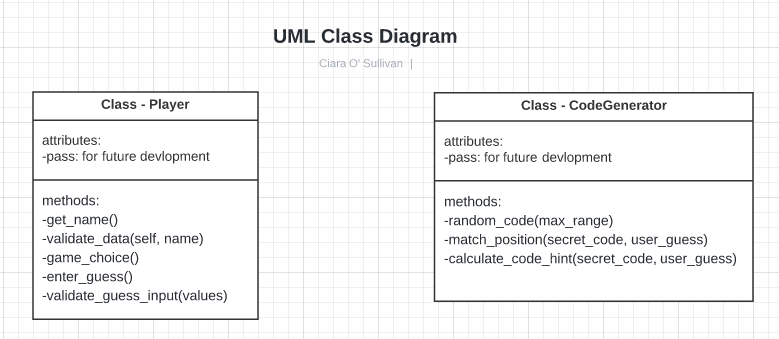
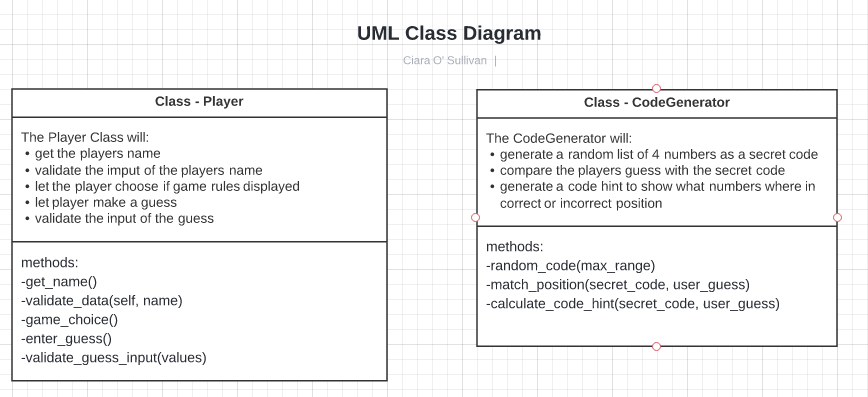
Edit class diagram and save new one to assets

diff --git a/README.md b/README.md
@@ -46,7 +46,9 @@ Unified Modelling Language (UML) was used to visualize the various features of t
 
 **Classes**
 
-Throughout this project, I have opted to use Object Oriented Programming. From the Use Case Diagram the Classes were created.  The game consists of two classes, the Player & the CodeGenorator.  Both of these classes have asscociated methods.  These classes can be expanded on in future development.  They are stored in separate files to allow for separating the code into parts that hold related data and functionality.  This will allow any future expansion and development of this project to have a clear structure and also for any code re-use and sharing as well as maintenance.
+Throughout this project, I have opted to use Object Oriented Programming. From the Use Case Diagram the Classes were created.  The game consists of two classes, the Player & the CodeGenerator.  Both of these classes have asscociated methods.  The class diagram below was used to decide what each class does and then design the methods each class should have.
+
+The classes and their asscociated methods are stored in separate files to allow for separating the code into parts that hold related data and functionality.  This will allow any future expansion and development of this project to have a clear structure and also for any code re-use and sharing as well as maintenance.
 
 ![Class Diagram](assets/images/class-diagram.png)
 
